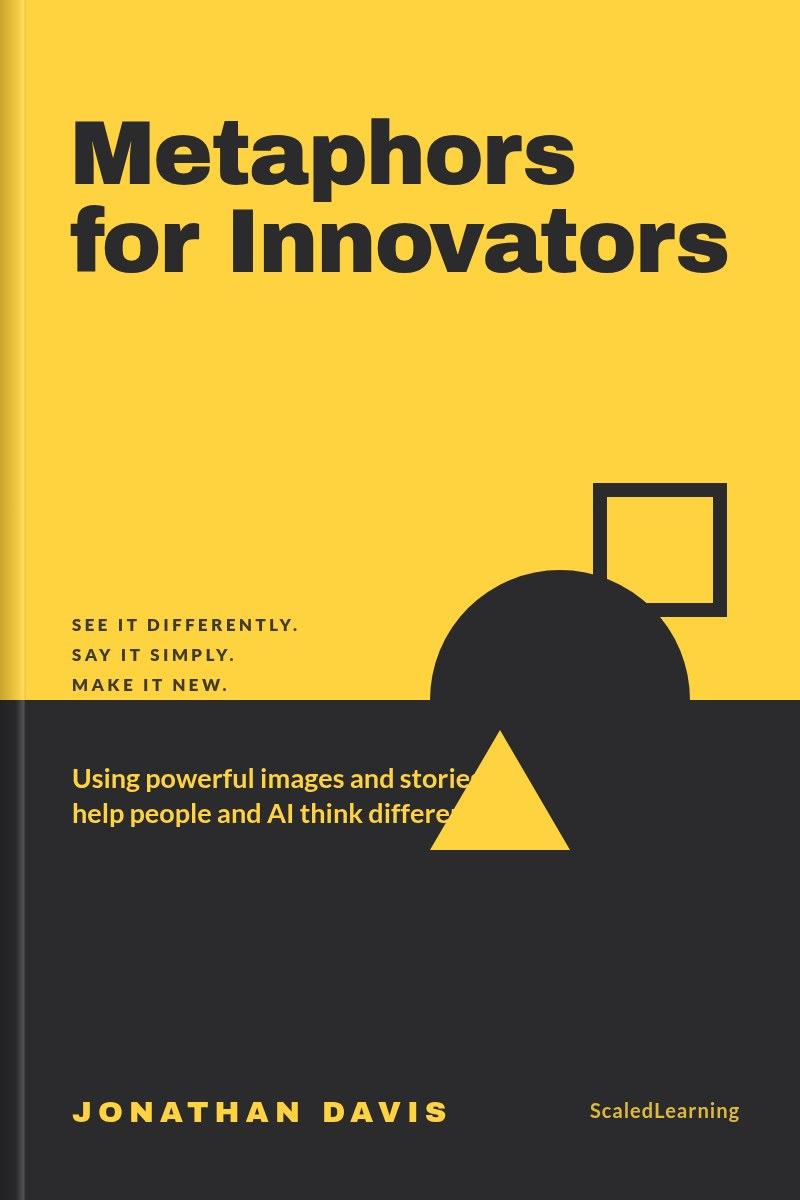
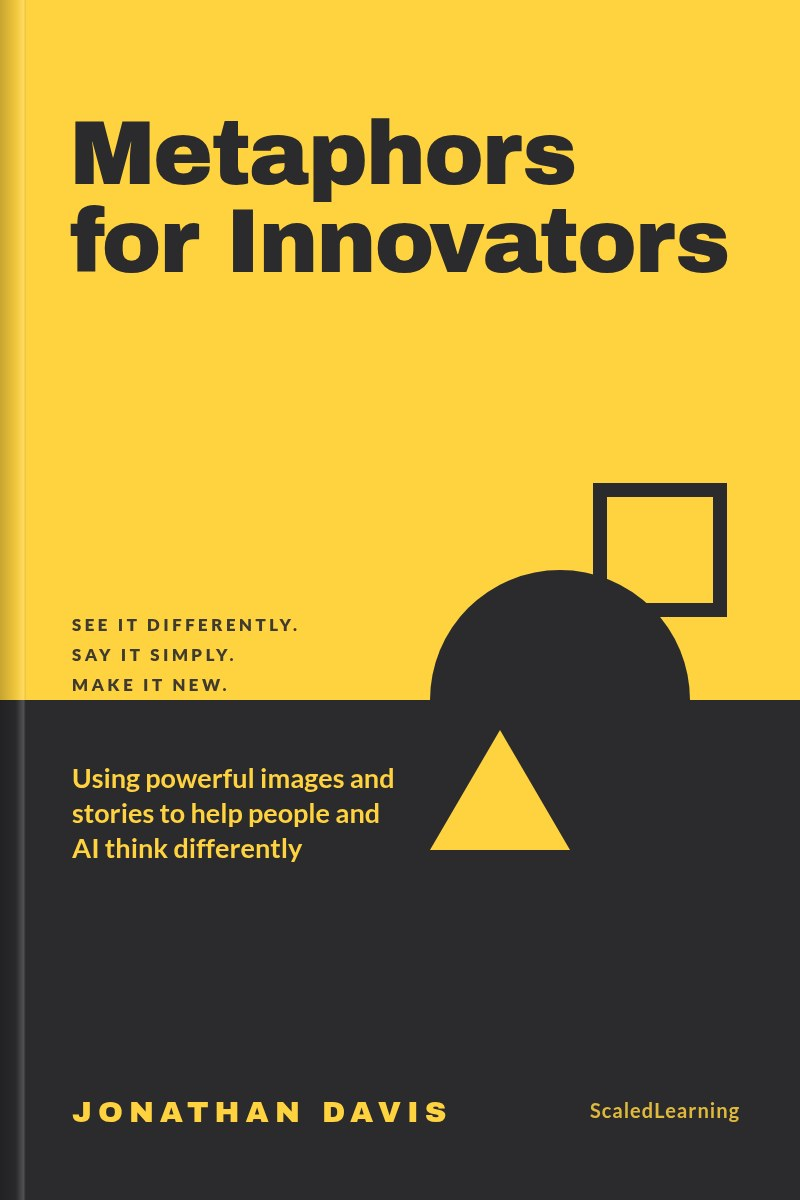
Metaphors for Innovators cover: subtitle clears shapes

Changed region(s): [[0.0938, 0.6475, 0.5938, 0.74]]

diff --git a/about.html b/about.html
@@ -18,7 +18,7 @@
 <link rel="icon" href="assets/favicon.svg?v=kite1" type="image/svg+xml">
 <link rel="icon" href="assets/favicon-32.png?v=kite1" sizes="32x32" type="image/png">
 <link rel="apple-touch-icon" href="assets/apple-touch-icon.png?v=kite1">
-<link rel="stylesheet" href="assets/styles.css?v=20261011a">
+<link rel="stylesheet" href="assets/styles.css?v=20261011b">
 </head>
 <body>
 <a class="skip" href="#main">Skip to content</a>
@@ -149,6 +149,6 @@
     </div>
   </div>
 </footer>
-<script src="assets/main.js?v=20261011a" defer></script>
+<script src="assets/main.js?v=20261011b" defer></script>
 </body>
 </html>

diff --git a/ai-agents.html b/ai-agents.html
@@ -18,7 +18,7 @@
 <link rel="icon" href="assets/favicon.svg?v=kite1" type="image/svg+xml">
 <link rel="icon" href="assets/favicon-32.png?v=kite1" sizes="32x32" type="image/png">
 <link rel="apple-touch-icon" href="assets/apple-touch-icon.png?v=kite1">
-<link rel="stylesheet" href="assets/styles.css?v=20261011a">
+<link rel="stylesheet" href="assets/styles.css?v=20261011b">
 </head>
 <body>
 <a class="skip" href="#main">Skip to content</a>
@@ -121,6 +121,6 @@
     </div>
   </div>
 </footer>
-<script src="assets/main.js?v=20261011a" defer></script>
+<script src="assets/main.js?v=20261011b" defer></script>
 </body>
 </html>

diff --git a/book-100-ai-agile-teams.html b/book-100-ai-agile-teams.html
@@ -18,7 +18,7 @@
 <link rel="icon" href="assets/favicon.svg?v=kite1" type="image/svg+xml">
 <link rel="icon" href="assets/favicon-32.png?v=kite1" sizes="32x32" type="image/png">
 <link rel="apple-touch-icon" href="assets/apple-touch-icon.png?v=kite1">
-<link rel="stylesheet" href="assets/styles.css?v=20261011a">
+<link rel="stylesheet" href="assets/styles.css?v=20261011b">
 </head>
 <body>
 <a class="skip" href="#main">Skip to content</a>
@@ -100,6 +100,6 @@
     </div>
   </div>
 </footer>
-<script src="assets/main.js?v=20261011a" defer></script>
+<script src="assets/main.js?v=20261011b" defer></script>
 </body>
 </html>

diff --git a/book-33-degrees.html b/book-33-degrees.html
@@ -18,7 +18,7 @@
 <link rel="icon" href="assets/favicon.svg?v=kite1" type="image/svg+xml">
 <link rel="icon" href="assets/favicon-32.png?v=kite1" sizes="32x32" type="image/png">
 <link rel="apple-touch-icon" href="assets/apple-touch-icon.png?v=kite1">
-<link rel="stylesheet" href="assets/styles.css?v=20261011a">
+<link rel="stylesheet" href="assets/styles.css?v=20261011b">
 </head>
 <body>
 <a class="skip" href="#main">Skip to content</a>
@@ -100,6 +100,6 @@
     </div>
   </div>
 </footer>
-<script src="assets/main.js?v=20261011a" defer></script>
+<script src="assets/main.js?v=20261011b" defer></script>
 </body>
 </html>

diff --git a/book-agents-as-teammates.html b/book-agents-as-teammates.html
@@ -18,7 +18,7 @@
 <link rel="icon" href="assets/favicon.svg?v=kite1" type="image/svg+xml">
 <link rel="icon" href="assets/favicon-32.png?v=kite1" sizes="32x32" type="image/png">
 <link rel="apple-touch-icon" href="assets/apple-touch-icon.png?v=kite1">
-<link rel="stylesheet" href="assets/styles.css?v=20261011a">
+<link rel="stylesheet" href="assets/styles.css?v=20261011b">
 </head>
 <body>
 <a class="skip" href="#main">Skip to content</a>
@@ -100,6 +100,6 @@
     </div>
   </div>
 </footer>
-<script src="assets/main.js?v=20261011a" defer></script>
+<script src="assets/main.js?v=20261011b" defer></script>
 </body>
 </html>

diff --git a/book-ai-driven-balanced-scorecards.html b/book-ai-driven-balanced-scorecards.html
@@ -18,7 +18,7 @@
 <link rel="icon" href="assets/favicon.svg?v=kite1" type="image/svg+xml">
 <link rel="icon" href="assets/favicon-32.png?v=kite1" sizes="32x32" type="image/png">
 <link rel="apple-touch-icon" href="assets/apple-touch-icon.png?v=kite1">
-<link rel="stylesheet" href="assets/styles.css?v=20261011a">
+<link rel="stylesheet" href="assets/styles.css?v=20261011b">
 </head>
 <body>
 <a class="skip" href="#main">Skip to content</a>
@@ -100,6 +100,6 @@
     </div>
   </div>
 </footer>
-<script src="assets/main.js?v=20261011a" defer></script>
+<script src="assets/main.js?v=20261011b" defer></script>
 </body>
 </html>

diff --git a/book-ai-driven-okrs.html b/book-ai-driven-okrs.html
@@ -18,7 +18,7 @@
 <link rel="icon" href="assets/favicon.svg?v=kite1" type="image/svg+xml">
 <link rel="icon" href="assets/favicon-32.png?v=kite1" sizes="32x32" type="image/png">
 <link rel="apple-touch-icon" href="assets/apple-touch-icon.png?v=kite1">
-<link rel="stylesheet" href="assets/styles.css?v=20261011a">
+<link rel="stylesheet" href="assets/styles.css?v=20261011b">
 </head>
 <body>
 <a class="skip" href="#main">Skip to content</a>
@@ -100,6 +100,6 @@
     </div>
   </div>
 </footer>
-<script src="assets/main.js?v=20261011a" defer></script>
+<script src="assets/main.js?v=20261011b" defer></script>
 </body>
 </html>

diff --git a/book-ai-governance-playbook.html b/book-ai-governance-playbook.html
@@ -18,7 +18,7 @@
 <link rel="icon" href="assets/favicon.svg?v=kite1" type="image/svg+xml">
 <link rel="icon" href="assets/favicon-32.png?v=kite1" sizes="32x32" type="image/png">
 <link rel="apple-touch-icon" href="assets/apple-touch-icon.png?v=kite1">
-<link rel="stylesheet" href="assets/styles.css?v=20261011a">
+<link rel="stylesheet" href="assets/styles.css?v=20261011b">
 </head>
 <body>
 <a class="skip" href="#main">Skip to content</a>
@@ -100,6 +100,6 @@
     </div>
   </div>
 </footer>
-<script src="assets/main.js?v=20261011a" defer></script>
+<script src="assets/main.js?v=20261011b" defer></script>
 </body>
 </html>

diff --git a/book-always-on-ai-analytics.html b/book-always-on-ai-analytics.html
@@ -18,7 +18,7 @@
 <link rel="icon" href="assets/favicon.svg?v=kite1" type="image/svg+xml">
 <link rel="icon" href="assets/favicon-32.png?v=kite1" sizes="32x32" type="image/png">
 <link rel="apple-touch-icon" href="assets/apple-touch-icon.png?v=kite1">
-<link rel="stylesheet" href="assets/styles.css?v=20261011a">
+<link rel="stylesheet" href="assets/styles.css?v=20261011b">
 </head>
 <body>
 <a class="skip" href="#main">Skip to content</a>
@@ -100,6 +100,6 @@
     </div>
   </div>
 </footer>
-<script src="assets/main.js?v=20261011a" defer></script>
+<script src="assets/main.js?v=20261011b" defer></script>
 </body>
 </html>

diff --git a/book-context-driven.html b/book-context-driven.html
@@ -18,7 +18,7 @@
 <link rel="icon" href="assets/favicon.svg?v=kite1" type="image/svg+xml">
 <link rel="icon" href="assets/favicon-32.png?v=kite1" sizes="32x32" type="image/png">
 <link rel="apple-touch-icon" href="assets/apple-touch-icon.png?v=kite1">
-<link rel="stylesheet" href="assets/styles.css?v=20261011a">
+<link rel="stylesheet" href="assets/styles.css?v=20261011b">
 </head>
 <body>
 <a class="skip" href="#main">Skip to content</a>
@@ -100,6 +100,6 @@
     </div>
   </div>
 </footer>
-<script src="assets/main.js?v=20261011a" defer></script>
+<script src="assets/main.js?v=20261011b" defer></script>
 </body>
 </html>

diff --git a/book-continuous-conversations.html b/book-continuous-conversations.html
@@ -18,7 +18,7 @@
 <link rel="icon" href="assets/favicon.svg?v=kite1" type="image/svg+xml">
 <link rel="icon" href="assets/favicon-32.png?v=kite1" sizes="32x32" type="image/png">
 <link rel="apple-touch-icon" href="assets/apple-touch-icon.png?v=kite1">
-<link rel="stylesheet" href="assets/styles.css?v=20261011a">
+<link rel="stylesheet" href="assets/styles.css?v=20261011b">
 </head>
 <body>
 <a class="skip" href="#main">Skip to content</a>
@@ -100,6 +100,6 @@
     </div>
   </div>
 </footer>
-<script src="assets/main.js?v=20261011a" defer></script>
+<script src="assets/main.js?v=20261011b" defer></script>
 </body>
 </html>

diff --git a/book-data-governance-age-of-ai.html b/book-data-governance-age-of-ai.html
@@ -18,7 +18,7 @@
 <link rel="icon" href="assets/favicon.svg?v=kite1" type="image/svg+xml">
 <link rel="icon" href="assets/favicon-32.png?v=kite1" sizes="32x32" type="image/png">
 <link rel="apple-touch-icon" href="assets/apple-touch-icon.png?v=kite1">
-<link rel="stylesheet" href="assets/styles.css?v=20261011a">
+<link rel="stylesheet" href="assets/styles.css?v=20261011b">
 </head>
 <body>
 <a class="skip" href="#main">Skip to content</a>
@@ -100,6 +100,6 @@
     </div>
   </div>
 </footer>
-<script src="assets/main.js?v=20261011a" defer></script>
+<script src="assets/main.js?v=20261011b" defer></script>
 </body>
 </html>
